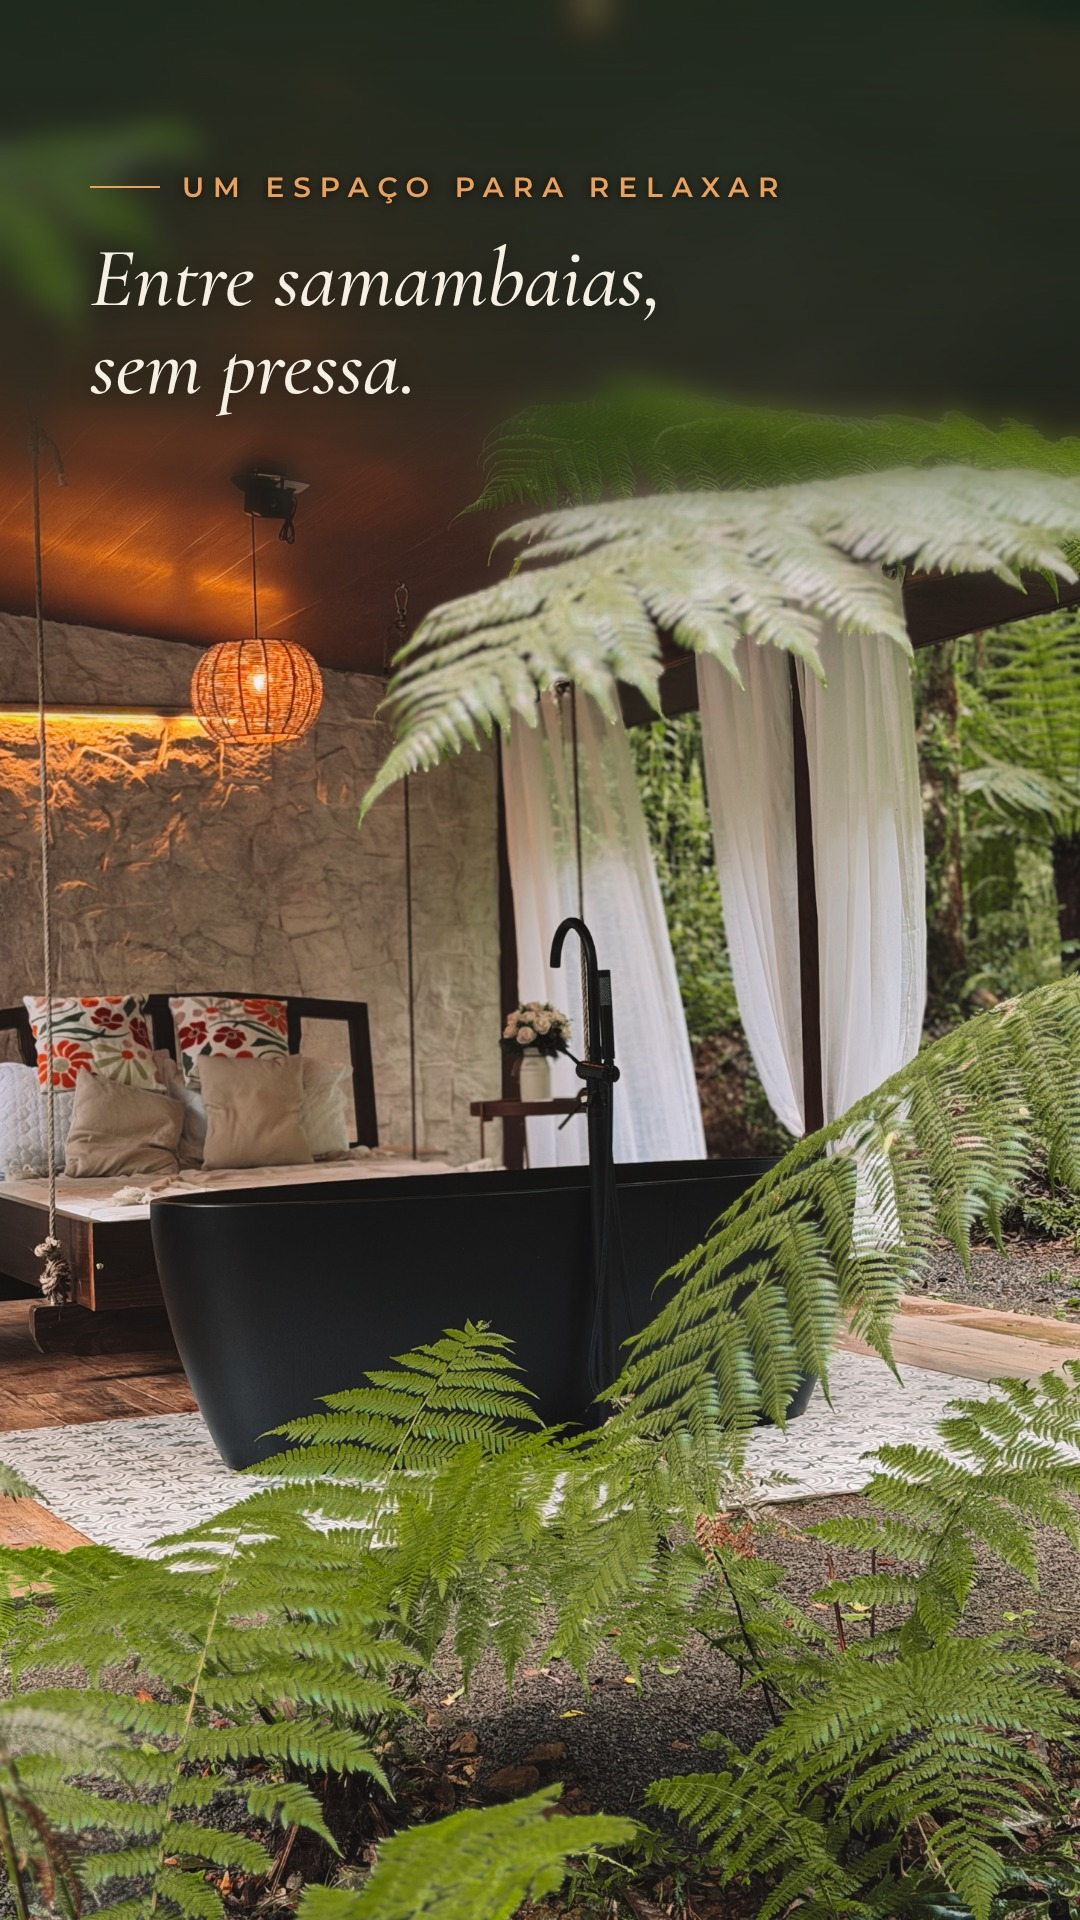
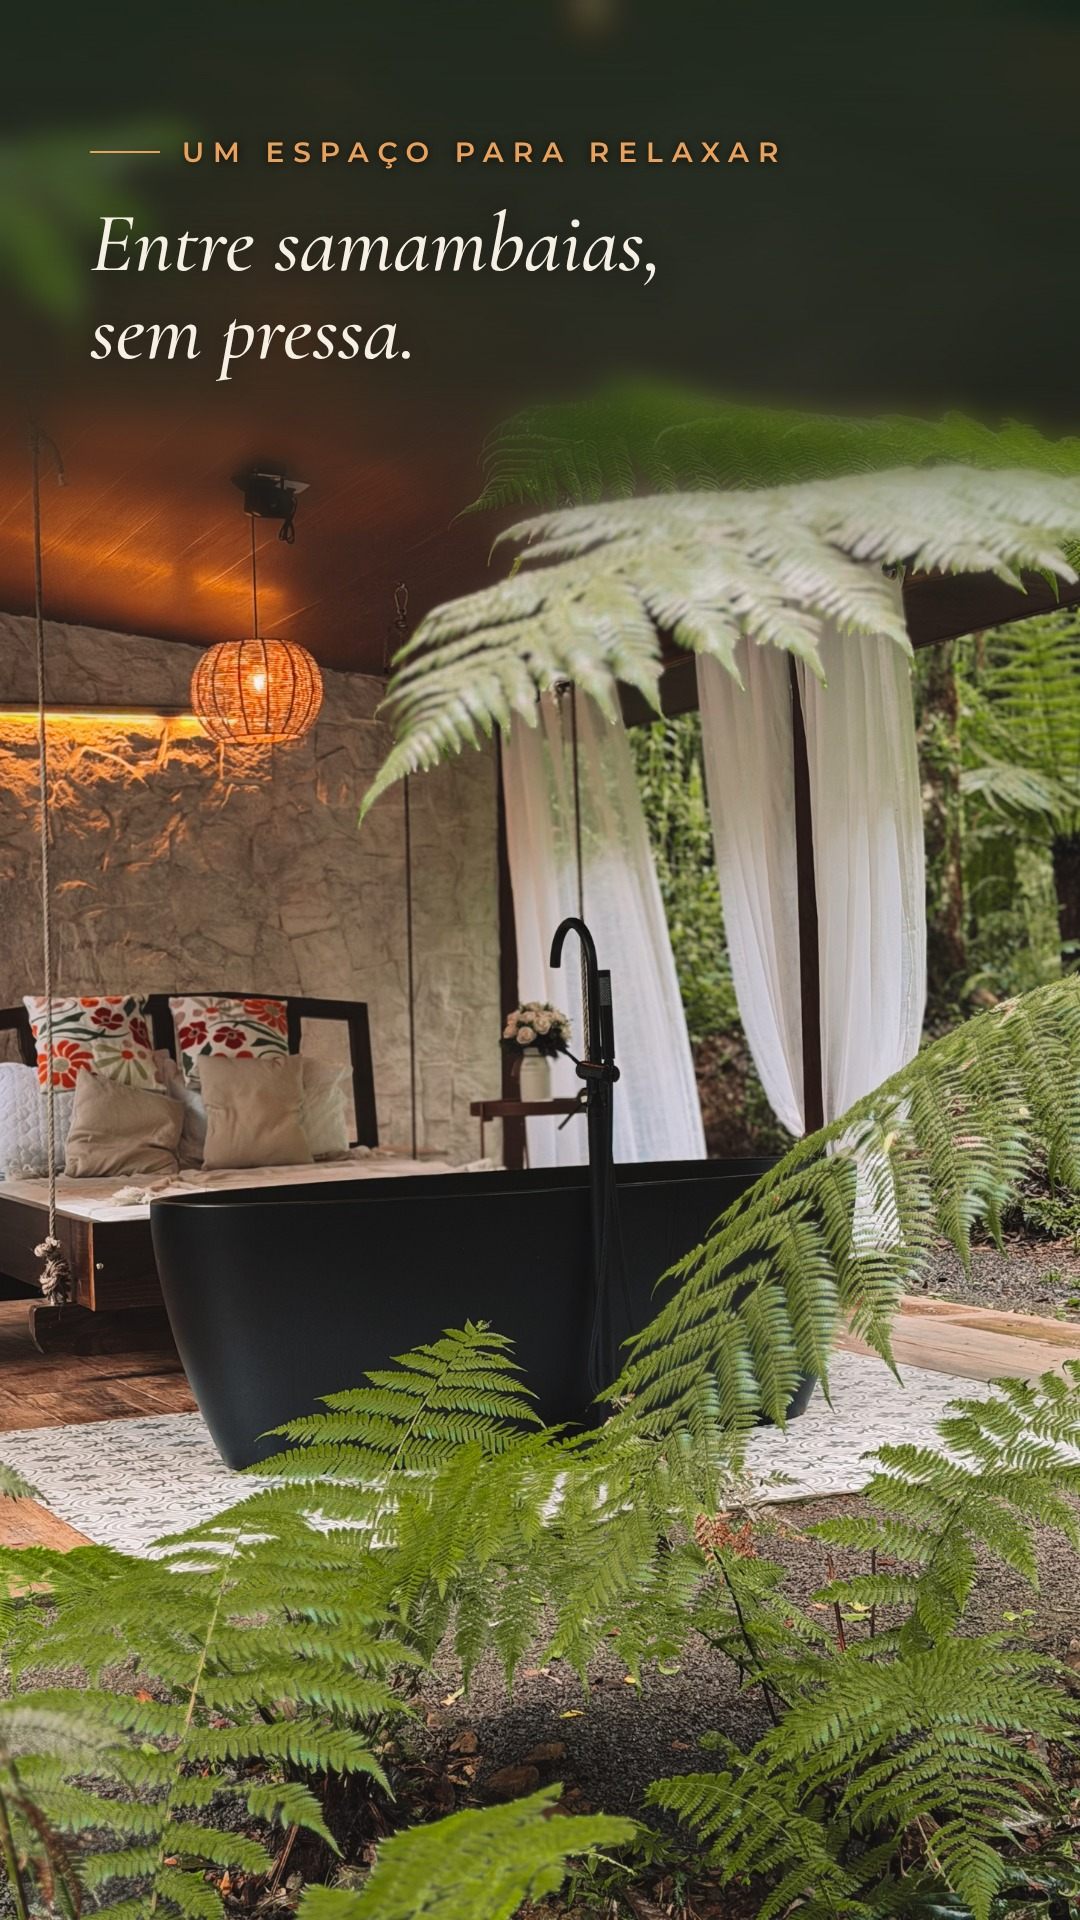
Stories: distâncias corrigidas e textos mais para cima/baixo
Claude-Session: https://claude.ai/code/session_01DGaSmMXhRVQXAQK6gDFrFo

Changed region(s): [[0.0917, 0.0625, 0.7333, 0.2188]]

diff --git a/stories-cabana/html/story-01.html b/stories-cabana/html/story-01.html
@@ -15,8 +15,8 @@ html, body { width:1080px; height:1920px; overflow:hidden; background:#0f1a14; }
   -webkit-mask-image:linear-gradient(0deg,#000 0%,#000 62%,transparent 100%); mask-image:linear-gradient(0deg,#000 0%,#000 62%,transparent 100%); }
 
 .box { position:absolute; left:90px; right:90px; color:#F6EFE4; }
-.box.top { top:170px; }
-.box.low { bottom:300px; }
+.box.top { top:135px; }
+.box.low { bottom:200px; }
 .kicker { font-family:'Montserrat',sans-serif; font-weight:600; font-size:28px; letter-spacing:.32em;
   text-transform:uppercase; color:#E9A15B; display:flex; align-items:center; gap:22px; margin-bottom:30px; text-shadow:0 1px 10px rgba(0,0,0,.7); }
 .kicker::before { content:''; width:70px; height:2px; background:#E9A15B; }
@@ -42,7 +42,7 @@ p { font-family:'Montserrat',sans-serif; font-weight:500; font-size:34px; line-h
   border-radius:10px; border:6px solid #F6EFE4; box-shadow:0 18px 50px rgba(0,0,0,.45); transform:rotate(-3deg); }
 </style></head><body>
 <img class="bg" src="file:///home/user/Jean-Radeski-/stories-cabana/fotos/drone.jpg" style="object-position:center;transform:translateY(0px)">
-<div class="blur low" style="height:500px"></div><div class="rodape"><div class="trilho"></div><div class="pt first" style="left:0.0%"><span class="km">30 km</span><span class="nome">Videira</span></div><div class="pt " style="left:25.0%"><span class="km">85 km</span><span class="nome">Joaçaba</span></div><div class="pt " style="left:50.0%"><span class="km">230 km</span><span class="nome">Chapecó</span></div><div class="pt " style="left:75.0%"><span class="km">370 km</span><span class="nome">Curitiba</span></div><div class="pt last" style="left:100.0%"><span class="km">420 km</span><span class="nome">Floripa</span></div></div>
+<div class="blur low" style="height:500px"></div><div class="rodape"><div class="trilho"></div><div class="pt first" style="left:0.0%"><span class="km">51 km</span><span class="nome">Videira</span></div><div class="pt " style="left:25.0%"><span class="km">54 km</span><span class="nome">Joaçaba</span></div><div class="pt " style="left:50.0%"><span class="km">180 km</span><span class="nome">Chapecó</span></div><div class="pt " style="left:75.0%"><span class="km">346 km</span><span class="nome">Curitiba</span></div><div class="pt last" style="left:100.0%"><span class="km">445 km</span><span class="nome">Floripa</span></div></div>
 <div class="blur top" style="height:620px"></div>
 
 <div class="box top"><div class="kicker">Salto Veloso</div><h1>Uma experiência privativa<br>em meio à mata.</h1></div>

diff --git a/stories-cabana/html/story-02.html b/stories-cabana/html/story-02.html
@@ -15,8 +15,8 @@ html, body { width:1080px; height:1920px; overflow:hidden; background:#0f1a14; }
   -webkit-mask-image:linear-gradient(0deg,#000 0%,#000 62%,transparent 100%); mask-image:linear-gradient(0deg,#000 0%,#000 62%,transparent 100%); }
 
 .box { position:absolute; left:90px; right:90px; color:#F6EFE4; }
-.box.top { top:170px; }
-.box.low { bottom:300px; }
+.box.top { top:135px; }
+.box.low { bottom:200px; }
 .kicker { font-family:'Montserrat',sans-serif; font-weight:600; font-size:28px; letter-spacing:.32em;
   text-transform:uppercase; color:#E9A15B; display:flex; align-items:center; gap:22px; margin-bottom:30px; text-shadow:0 1px 10px rgba(0,0,0,.7); }
 .kicker::before { content:''; width:70px; height:2px; background:#E9A15B; }

diff --git a/stories-cabana/html/story-03.html b/stories-cabana/html/story-03.html
@@ -15,8 +15,8 @@ html, body { width:1080px; height:1920px; overflow:hidden; background:#0f1a14; }
   -webkit-mask-image:linear-gradient(0deg,#000 0%,#000 62%,transparent 100%); mask-image:linear-gradient(0deg,#000 0%,#000 62%,transparent 100%); }
 
 .box { position:absolute; left:90px; right:90px; color:#F6EFE4; }
-.box.top { top:170px; }
-.box.low { bottom:300px; }
+.box.top { top:135px; }
+.box.low { bottom:200px; }
 .kicker { font-family:'Montserrat',sans-serif; font-weight:600; font-size:28px; letter-spacing:.32em;
   text-transform:uppercase; color:#E9A15B; display:flex; align-items:center; gap:22px; margin-bottom:30px; text-shadow:0 1px 10px rgba(0,0,0,.7); }
 .kicker::before { content:''; width:70px; height:2px; background:#E9A15B; }

diff --git a/stories-cabana/html/story-04.html b/stories-cabana/html/story-04.html
@@ -15,8 +15,8 @@ html, body { width:1080px; height:1920px; overflow:hidden; background:#0f1a14; }
   -webkit-mask-image:linear-gradient(0deg,#000 0%,#000 62%,transparent 100%); mask-image:linear-gradient(0deg,#000 0%,#000 62%,transparent 100%); }
 
 .box { position:absolute; left:90px; right:90px; color:#F6EFE4; }
-.box.top { top:170px; }
-.box.low { bottom:300px; }
+.box.top { top:135px; }
+.box.low { bottom:200px; }
 .kicker { font-family:'Montserrat',sans-serif; font-weight:600; font-size:28px; letter-spacing:.32em;
   text-transform:uppercase; color:#E9A15B; display:flex; align-items:center; gap:22px; margin-bottom:30px; text-shadow:0 1px 10px rgba(0,0,0,.7); }
 .kicker::before { content:''; width:70px; height:2px; background:#E9A15B; }

diff --git a/stories-cabana/html/story-05.html b/stories-cabana/html/story-05.html
@@ -15,8 +15,8 @@ html, body { width:1080px; height:1920px; overflow:hidden; background:#0f1a14; }
   -webkit-mask-image:linear-gradient(0deg,#000 0%,#000 62%,transparent 100%); mask-image:linear-gradient(0deg,#000 0%,#000 62%,transparent 100%); }
 
 .box { position:absolute; left:90px; right:90px; color:#F6EFE4; }
-.box.top { top:170px; }
-.box.low { bottom:300px; }
+.box.top { top:135px; }
+.box.low { bottom:200px; }
 .kicker { font-family:'Montserrat',sans-serif; font-weight:600; font-size:28px; letter-spacing:.32em;
   text-transform:uppercase; color:#E9A15B; display:flex; align-items:center; gap:22px; margin-bottom:30px; text-shadow:0 1px 10px rgba(0,0,0,.7); }
 .kicker::before { content:''; width:70px; height:2px; background:#E9A15B; }

diff --git a/stories-cabana/html/story-06.html b/stories-cabana/html/story-06.html
@@ -15,8 +15,8 @@ html, body { width:1080px; height:1920px; overflow:hidden; background:#0f1a14; }
   -webkit-mask-image:linear-gradient(0deg,#000 0%,#000 62%,transparent 100%); mask-image:linear-gradient(0deg,#000 0%,#000 62%,transparent 100%); }
 
 .box { position:absolute; left:90px; right:90px; color:#F6EFE4; }
-.box.top { top:170px; }
-.box.low { bottom:300px; }
+.box.top { top:135px; }
+.box.low { bottom:200px; }
 .kicker { font-family:'Montserrat',sans-serif; font-weight:600; font-size:28px; letter-spacing:.32em;
   text-transform:uppercase; color:#E9A15B; display:flex; align-items:center; gap:22px; margin-bottom:30px; text-shadow:0 1px 10px rgba(0,0,0,.7); }
 .kicker::before { content:''; width:70px; height:2px; background:#E9A15B; }

diff --git a/stories-cabana/html/story-07.html b/stories-cabana/html/story-07.html
@@ -15,8 +15,8 @@ html, body { width:1080px; height:1920px; overflow:hidden; background:#0f1a14; }
   -webkit-mask-image:linear-gradient(0deg,#000 0%,#000 62%,transparent 100%); mask-image:linear-gradient(0deg,#000 0%,#000 62%,transparent 100%); }
 
 .box { position:absolute; left:90px; right:90px; color:#F6EFE4; }
-.box.top { top:170px; }
-.box.low { bottom:300px; }
+.box.top { top:135px; }
+.box.low { bottom:200px; }
 .kicker { font-family:'Montserrat',sans-serif; font-weight:600; font-size:28px; letter-spacing:.32em;
   text-transform:uppercase; color:#E9A15B; display:flex; align-items:center; gap:22px; margin-bottom:30px; text-shadow:0 1px 10px rgba(0,0,0,.7); }
 .kicker::before { content:''; width:70px; height:2px; background:#E9A15B; }

diff --git a/stories-cabana/html/story-08.html b/stories-cabana/html/story-08.html
@@ -15,8 +15,8 @@ html, body { width:1080px; height:1920px; overflow:hidden; background:#0f1a14; }
   -webkit-mask-image:linear-gradient(0deg,#000 0%,#000 62%,transparent 100%); mask-image:linear-gradient(0deg,#000 0%,#000 62%,transparent 100%); }
 
 .box { position:absolute; left:90px; right:90px; color:#F6EFE4; }
-.box.top { top:170px; }
-.box.low { bottom:300px; }
+.box.top { top:135px; }
+.box.low { bottom:200px; }
 .kicker { font-family:'Montserrat',sans-serif; font-weight:600; font-size:28px; letter-spacing:.32em;
   text-transform:uppercase; color:#E9A15B; display:flex; align-items:center; gap:22px; margin-bottom:30px; text-shadow:0 1px 10px rgba(0,0,0,.7); }
 .kicker::before { content:''; width:70px; height:2px; background:#E9A15B; }

diff --git a/stories-cabana/html/story-09.html b/stories-cabana/html/story-09.html
@@ -15,8 +15,8 @@ html, body { width:1080px; height:1920px; overflow:hidden; background:#0f1a14; }
   -webkit-mask-image:linear-gradient(0deg,#000 0%,#000 62%,transparent 100%); mask-image:linear-gradient(0deg,#000 0%,#000 62%,transparent 100%); }
 
 .box { position:absolute; left:90px; right:90px; color:#F6EFE4; }
-.box.top { top:170px; }
-.box.low { bottom:300px; }
+.box.top { top:135px; }
+.box.low { bottom:200px; }
 .kicker { font-family:'Montserrat',sans-serif; font-weight:600; font-size:28px; letter-spacing:.32em;
   text-transform:uppercase; color:#E9A15B; display:flex; align-items:center; gap:22px; margin-bottom:30px; text-shadow:0 1px 10px rgba(0,0,0,.7); }
 .kicker::before { content:''; width:70px; height:2px; background:#E9A15B; }

diff --git a/stories-cabana/html/story-10.html b/stories-cabana/html/story-10.html
@@ -15,8 +15,8 @@ html, body { width:1080px; height:1920px; overflow:hidden; background:#0f1a14; }
   -webkit-mask-image:linear-gradient(0deg,#000 0%,#000 62%,transparent 100%); mask-image:linear-gradient(0deg,#000 0%,#000 62%,transparent 100%); }
 
 .box { position:absolute; left:90px; right:90px; color:#F6EFE4; }
-.box.top { top:170px; }
-.box.low { bottom:300px; }
+.box.top { top:135px; }
+.box.low { bottom:200px; }
 .kicker { font-family:'Montserrat',sans-serif; font-weight:600; font-size:28px; letter-spacing:.32em;
   text-transform:uppercase; color:#E9A15B; display:flex; align-items:center; gap:22px; margin-bottom:30px; text-shadow:0 1px 10px rgba(0,0,0,.7); }
 .kicker::before { content:''; width:70px; height:2px; background:#E9A15B; }

diff --git a/stories-cabana/html/story-11.html b/stories-cabana/html/story-11.html
@@ -15,8 +15,8 @@ html, body { width:1080px; height:1920px; overflow:hidden; background:#0f1a14; }
   -webkit-mask-image:linear-gradient(0deg,#000 0%,#000 62%,transparent 100%); mask-image:linear-gradient(0deg,#000 0%,#000 62%,transparent 100%); }
 
 .box { position:absolute; left:90px; right:90px; color:#F6EFE4; }
-.box.top { top:170px; }
-.box.low { bottom:300px; }
+.box.top { top:135px; }
+.box.low { bottom:200px; }
 .kicker { font-family:'Montserrat',sans-serif; font-weight:600; font-size:28px; letter-spacing:.32em;
   text-transform:uppercase; color:#E9A15B; display:flex; align-items:center; gap:22px; margin-bottom:30px; text-shadow:0 1px 10px rgba(0,0,0,.7); }
 .kicker::before { content:''; width:70px; height:2px; background:#E9A15B; }

diff --git a/stories-cabana/gerar.py b/stories-cabana/gerar.py
@@ -17,8 +17,8 @@ HTML.mkdir(exist_ok=True)
 STORIES = [
     ("drone.jpg", "center", "top", "Salto Veloso",
      "Uma experiência privativa<br>em meio à mata.", "",
-     {"rodape": [("Videira", "30 km"), ("Joaçaba", "85 km"), ("Chapecó", "230 km"),
-                 ("Curitiba", "370 km"), ("Floripa", "420 km")]}),
+     {"rodape": [("Videira", "51 km"), ("Joaçaba", "54 km"), ("Chapecó", "180 km"),
+                 ("Curitiba", "346 km"), ("Floripa", "445 km")]}),
     ("ponte.jpg", "center 40%", "low", "O caminho",
      "Atravesse a ponte.", "Todo o ambiente cercado pela natureza.", {}),
     ("cabana-noite.jpg", "center 60%", "top", "Arquitetura A-frame",
@@ -60,8 +60,8 @@ html, body { width:1080px; height:1920px; overflow:hidden; background:#0f1a14; }
   -webkit-mask-image:linear-gradient(0deg,#000 0%,#000 62%,transparent 100%); mask-image:linear-gradient(0deg,#000 0%,#000 62%,transparent 100%); }
 
 .box { position:absolute; left:90px; right:90px; color:#F6EFE4; }
-.box.top { top:170px; }
-.box.low { bottom:300px; }
+.box.top { top:135px; }
+.box.low { bottom:200px; }
 .kicker { font-family:'Montserrat',sans-serif; font-weight:600; font-size:28px; letter-spacing:.32em;
   text-transform:uppercase; color:#E9A15B; display:flex; align-items:center; gap:22px; margin-bottom:30px; text-shadow:0 1px 10px rgba(0,0,0,.7); }
 .kicker::before { content:''; width:70px; height:2px; background:#E9A15B; }
